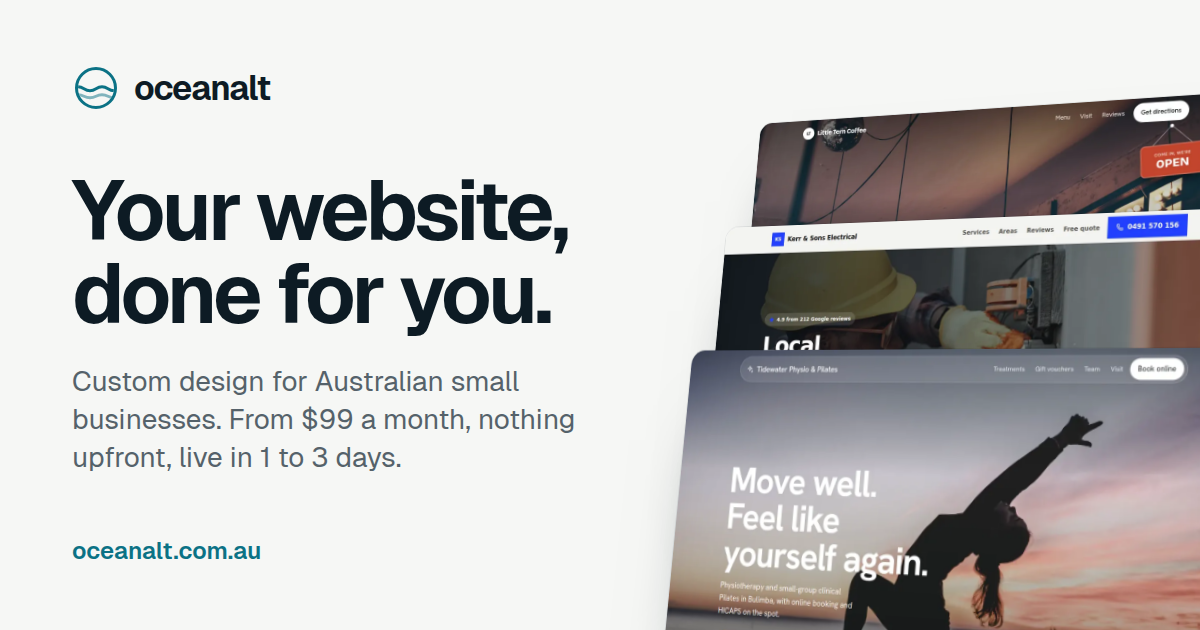
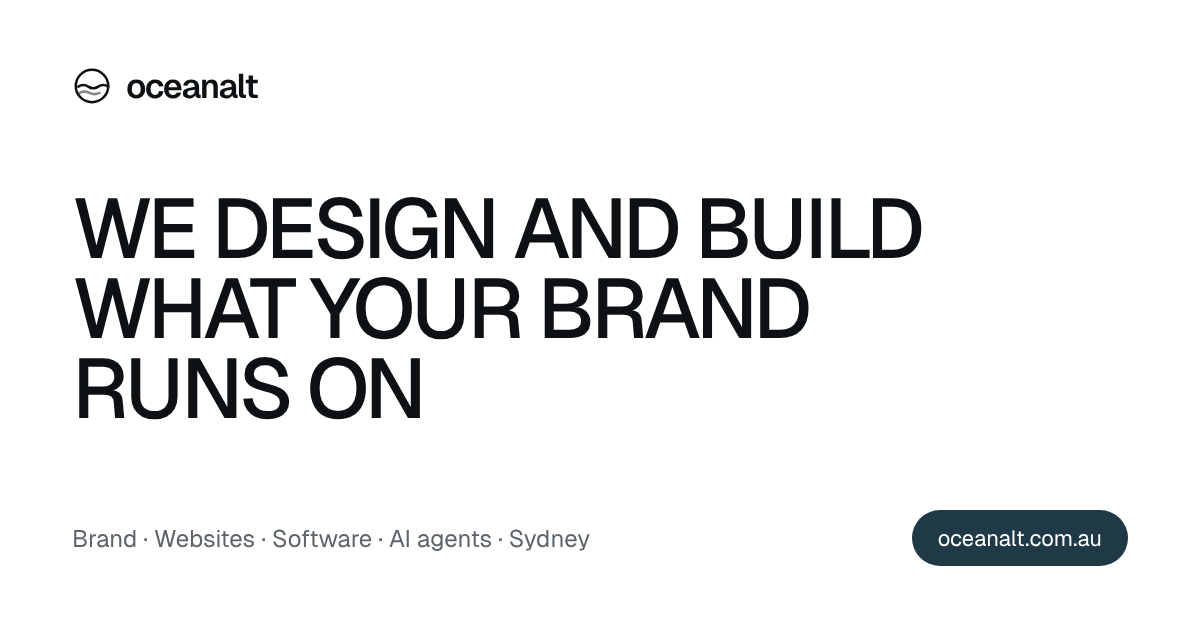
Studio site: new share image, docs for the repositioning, flatter /design panels, footer service links
Claude-Session: https://claude.ai/code/session_01RpmJnSPrc6hx8ABvC13Bj4

diff --git a/src/studio/Studio.tsx b/src/studio/Studio.tsx
@@ -338,7 +338,7 @@ function Founder() {
         </blockquote>
         <div className="s-person">
           <img src={FOUNDER_PHOTO} alt={`${FOUNDER}, founder of Oceanalt`} width={112} height={112} loading="lazy" />
-          <div><b>{FOUNDER}</b><span>Founder, Oceanalt</span></div>
+          <div><b>{FOUNDER}</b><span>Builder, Oceanalt</span></div>
           <a className="s-btn s-btn-soft" href={PHONE_HREF}><Icon name="phone" /> {PHONE}</a>
         </div>
       </div>

diff --git a/CLAUDE.md b/CLAUDE.md
@@ -1,12 +1,10 @@
 # Oceanalt
 
-Oceanalt is run as a small firm of Claude agents plus the founder. It sells three things to Australian small businesses, with equal weight: **digital presence** (website, Google profile, SEO; Care $29; Launch: month one just the domain at cost, then $69/month to month 6 and $99 from month 7; Grow $149; 6-month minimum, then the site is theirs; or one-off from $1,499), **web apps and software** (quoted per project), and **AI agents** ($39/month assistant + usage at cost, custom agents quoted). Tagline: "More customers. Less admin."
+Oceanalt is run as a small firm of Claude agents plus the founder. Since 17 Nov 2026 (founder's call) it is a **design and technology studio for established Australian brands**: brand identity, websites, web apps and software, AI agents, search and AI visibility, and care after launch. Every project is quoted in writing after a first call. **No prices anywhere on the site**, not even "from". The old small-business plans (Care, Launch, Grow, one-off, AI concierge, chat assistant) are retired for new clients; existing clients keep theirs (BUSINESS_PLAN section 0). Client sites and apps are hosted on Cloudflare and AWS, and client data stays in Australia (AWS Sydney); keep that true (see OPERATIONS.md).
 
-What we sell, in the owner's words: **get found** (website, Google Business Profile, SEO, showing up in AI search), **when you can't pick up** (AI concierge $149/month with a local number + call time at cost; website chat assistant $39/month), **less admin** (we make their pipeline efficient, from first enquiry to paid invoice: web apps and workflow automation, quoted per project). Client sites and apps are hosted on Cloudflare and AWS, and client data stays in Australia (AWS Sydney); keep that true (see OPERATIONS.md).
+**The site** (founder: "something like hypragency.com"; study in `docs/design/STUDIO_STUDY.md`): white, ink `#0d1114`, soft grey `#f3f4f4`, one deep teal `#1f3a46` for the footer and dark panels, Geist at weight 500, a big uppercase centred statement, pill buttons with the arrow in its own circle, lots of space, slow eased motion that stops for reduced motion. The homepage is `src/studio/Studio.tsx` (copy in `src/studio/content.ts`, styles in `src/studio/studio.css`): statement, a strip of sample work, tools, swipeable services, "why one studio", the process loop, a dark work band, a note from Lathif, FAQ, the enquiry form, teal footer. `/design/` (`src/seo/DesignPage.tsx`), `/designs/` and the service pages (`src/seo/landing.ts`) are static and prerendered with the same look (`src/seo/StaticChrome.tsx`, `src/seo/static.css`). Old small-business URLs redirect in `public/_redirects`. Photos live in `public/photos/` with credits in `CREDITS.md`.
 
-Every service on the site should feel like a demo: `src/components/Story.tsx` has the hero phone, the call and the checkout; `src/components/Demos.tsx` has the pipeline demo and the logo wall (brand SVGs in `public/logos/`, logos only, names in alt text; only tools we actually use or connect to, never WordPress, Wix or Squarespace); the story has the animated concierge call and checkout. Demos use sample businesses and say so.
-
-**We sell a story, to Australians.** Think like a marketer: lead with the moment the owner recognises ("you're up a ladder and the phone rings"), then what changes, then the product. Write the way Aussie small-business owners talk: plain, direct, a bit dry, Australian spelling, no hype or American sales talk, local words where they fit naturally (tradie, sparky, arvo, on the tools) but never forced. Aussies trust straight answers: show prices, say what's not included, never promise rankings or invent stats.
+**Write like a good Australian studio:** plain, direct, a bit dry, Australian spelling, short sentences, no hype or American sales talk. No invented stats, testimonials, client logos, awards or scarcity ("limited spots" and "trusted by 100+" are exactly what we don't do). Sample designs are always labelled as fictional. Never promise rankings.
 
 ## Source of truth
 - `docs/business/BUSINESS_PLAN.md`: offer, pricing, unit economics, validation plan, risks
@@ -17,12 +15,14 @@ Every service on the site should feel like a demo: `src/components/Story.tsx` ha
 - `docs/business/AGENT_PLAYBOOK.md`: what every agent handles, the weekly rhythm, and what needs the founder
 - `docs/business/CONCIERGE_SETUP.md`: the form a client fills in so the AI concierge can answer their phone, plus the 10 test calls
 
-Pricing (including the AI add-on), delivery time, reply time and terms appear in four places, and they must always agree: the BUSINESS_PLAN, `PLANS`/`FAQ`/the AI add-on block in `src/App.tsx`, the `Terms` component in `src/App.tsx`, and the system prompt in `api/start.ts`. Change them together.
+How we price (quoted per project, no prices shown), reply time and terms appear in four places, and they must always agree: the BUSINESS_PLAN section 0, `STUDIO_FAQ` in `src/studio/content.ts`, the `Terms` component in `src/App.tsx`, and the system prompt in `api/start.ts` (it never quotes prices or recommends plans). Change them together.
 
 ## The 15-minute reply (`api/start.ts`)
 A Vercel function: the start form posts to it, Claude recommends a plan and layout as structured output, and Resend emails the reply to the enquirer and the lead to us. It falls back to the Firebase/EmailJS path if its env vars aren't set. Internally Oceanalt runs on AI agents, checked by people, but on the site we don't say the sites are built by AI (founder's call, 12 Oct 2026): lead with the founder, Lathif Shaik, who designs, signs off every site and answers the phone (his card by the start form, his name in the footer; his photo is `public/team/lathif.webp` via `FOUNDER_PHOTO` in `src/App.tsx`, and he is titled "Builder"). Don't mention AI in the trust, start-form or footer copy (founder's call). Keep it true: a person reads every enquiry the same business day. The site only promises the 15-minute reply once this function runs on Cloudflare (where the site is hosted) and passes an end-to-end test; until then it promises a same-business-day reply from a person.
 
-## The homepage story (`src/components/Story.tsx`)
+## Retired: the small-business homepage story (`src/components/Story.tsx`)
+Kept in the repo for reference and possible reuse (the call demos and audio still work), but no longer on the site since 17 Nov 2026.
+
 Hero: "Get found. Get booked. Get paid." with a browser and a phone that rotate through four matched sample businesses (Little Tern Coffee, Kerr & Sons, Saltwater Yoga, Tidewater Physio): each scene shows that business's own sample site (the address bar shows its real path on oceanalt.com.au/work/), the owner's phone, and two wins of one service from that business. Owners hop when a win lands (`Wave`). Jim's founder-made frames (`docs/design/avatars/jim-sheet.png`) and `scripts/make-wave-strip.py` (keys out drawn backgrounds, removes number badges, aligns frames, `--smooth 30` adds motion-interpolated in-betweens) are kept, but Jim is off the site for now (founder's call): the Kerr & Sons scene has no owner avatar and the WhatsApp card shows the WhatsApp logo. `mel-sheet.png` is saved for Mel; she isn't animated yet (founder's call). Then the "We work with" logo row (scrolls left to right), then one sticky scroll story in four steps, each with a small working visual: get found (a site we designed + where it shows up), when you can't pick up (two sample calls to pick from, a sparky booking a job and a restaurant taking a table, each as a transcript, the pattern the best competitors use, see `docs/growth/research/voice-agent-competitors.md`: plain lines paced to be read, the line being said highlighted, action rows for what the agent did (address saved, booked, sent to Jim), then the owner's summary, with a switch for WhatsApp, text or email; the opening line says "I'm Jim's AI agent, and this call is recorded", and the agent never gives electrical advice beyond the triple zero line), get paid (a checkout cycling Apple Pay, Google Pay, Afterpay, card into Stripe), less admin (the pipeline demo: one sample job, Priya's EV charger for Kerr & Sons, shown like a delivery tracker through enquiry, quote, booked and paid, each stop with the app that did it and the time, ending "Synced to Xero. Nothing typed twice."; founder's pick, 14 Oct 2026). On mobile each visual sits under its step. People are flat illustrated avatars from Avatars by Alohe (github.com/alohe/avatars, MIT, vibrent set, `public/avatars/people/` with its LICENSE.txt; founder's call, 14 Oct 2026, replacing the Fluent emoji people): the AI agent (headset, with an AI badge), Mel, Pauline, Jim, Maria, customers (Priya, Sam, Tom) and the owners of the sample businesses. Not the set's "memo" faces (they copy Apple's Memoji), nor "teams" or "notion" (they copy Microsoft's and Notion's art). No emoji anywhere (founder's call): no mood badges or emoji faces. The pay step plays a real-looking sheet per method (Face ID for Apple Pay, card tap for Google Pay, four dots for Afterpay, typed card) ending in a drawn tick. The work gallery shows each sample business as a case study: owner, before, what the site does (sample, no results claimed). Sample businesses only, and the page says so. `/designs/` (`src/seo/DesignsPage.tsx`, static, prerendered) lists every sample design newest first with a no-JS category filter; it reads `WORK` in `src/App.tsx`, so a new sample (with its `added` date) appears there and gets the New badge automatically. Keep the page uncluttered: one idea per screen, logos instead of chips, motion that tells the story and stops for reduced motion.
 
 `api/demo.ts` and `shared/aiDemo.ts` (live Claude chat demo) are kept for a future website-chat demo but aren't on the homepage now.

diff --git a/docs/business/BUSINESS_PLAN.md b/docs/business/BUSINESS_PLAN.md
@@ -1,6 +1,17 @@
-# Oceanalt business plan: websites, web apps and AI for small businesses
+# Oceanalt business plan: a design and technology studio for established brands
 
-_Last reviewed: 2 October 2026 (second pass: 1–3 day delivery, template system, site rebuild). Owner: CEO agent + founder._
+_Last reviewed: 17 November 2026 (repositioning, section 0). Owner: CEO agent + founder._
+
+## 0. Repositioning (founder's decision, 17 November 2026)
+
+This section overrides sections 1 to 3 for all new work. The rest of the plan is kept as history and for existing clients.
+
+- **Who we sell to:** established Australian brands, roughly 20 to 500 staff, that pay for craft: property, hospitality groups, health groups, professional firms, retail brands. Not small businesses.
+- **What we sell:** brand identity, websites, web apps and software, AI agents, search and AI visibility, and care after launch. One studio does all of it; the person who designs it builds it.
+- **Pricing:** every project is quoted in writing after a first call, with a fixed scope. **No prices anywhere on the site**, not even "from" (founder). Deposit and milestones are set in each written proposal. Care after launch is agreed in writing with the project.
+- **Retired:** Care $29, Launch $69/$99, Grow $149, one-off from $1,499, AI concierge $149 and chat assistant $39 are no longer offered or shown. **Existing clients keep their plan**, and the 27 businesses quoted the 1 November outreach offer (Launch $69 held 12 months, Grow $99, then Care $29) get that price if they reply.
+- **Proof:** sample designs, clearly labelled as fictional, until we have real case studies. No invented stats, testimonials, client logos or scarcity. Design study: `docs/design/STUDIO_STUDY.md`.
+- **Next:** 4 to 6 new sample projects at established-brand level (for example a property developer, a hotel group, a health group), then outreach to that segment with a new playbook.
 
 ## 1. The idea in one line
 
